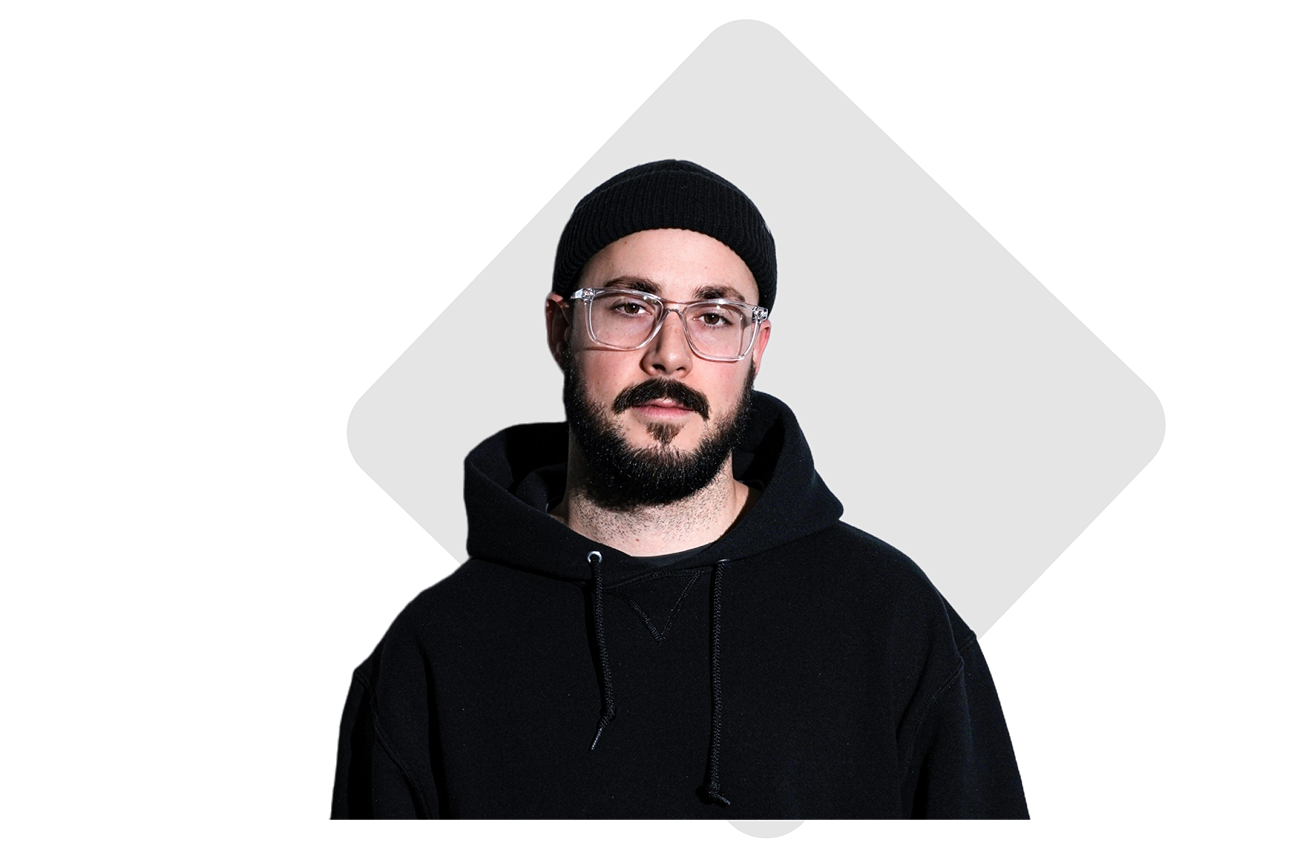
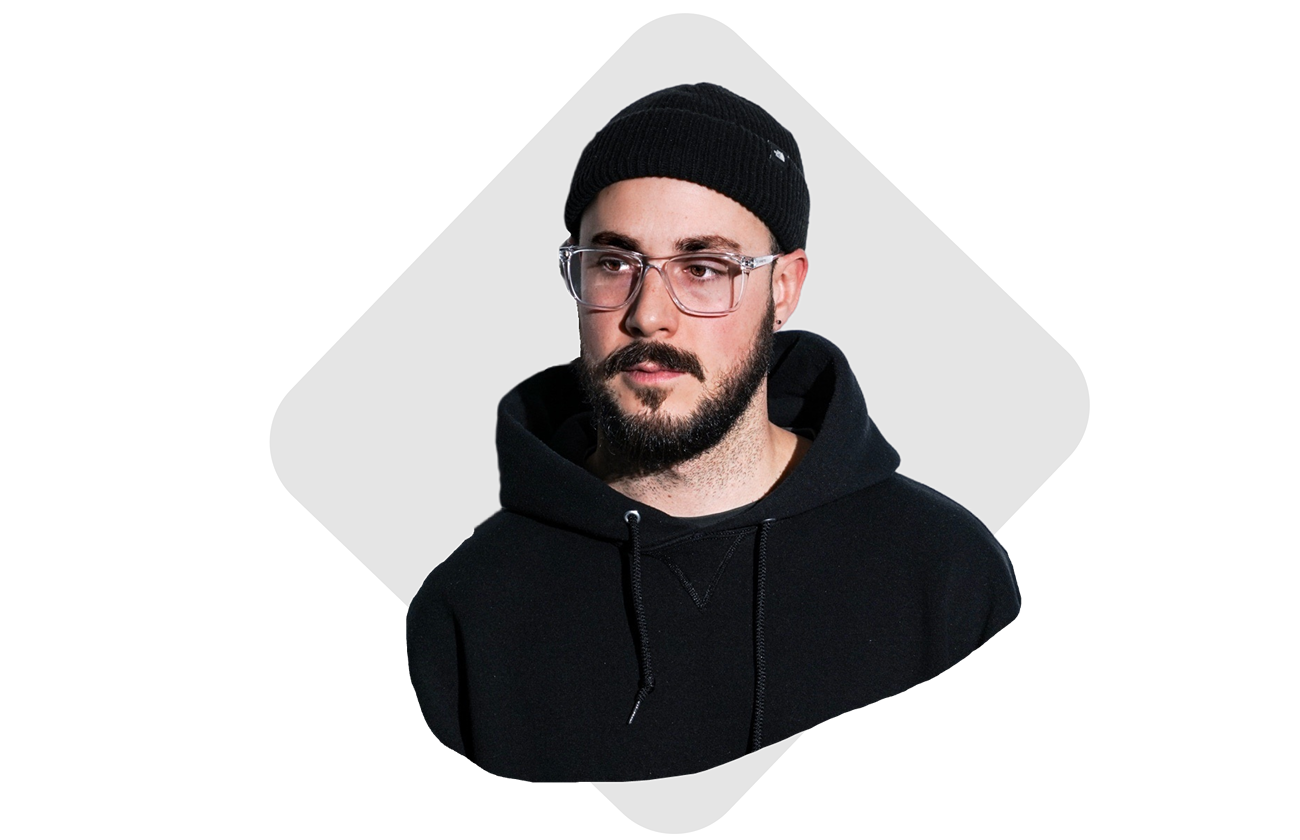
Refactor code structure and remove redundant sections for improved readability and maintainability

Changed region(s): [[0.1846, 0.0, 0.8923, 0.9905], [0.5231, 0.681, 0.5538, 0.7119]]

diff --git a/index.html b/index.html
@@ -111,16 +111,18 @@
                     media="(max-width: 479px)">
 
                     <!-- Small screens -->
-                    <source 
+                     
+                    <!-- <source 
                     srcset="images/s-profile-1-786w.png, 
                             images/s-profile-1-1200.png 2x"
-                    media="(max-width: 480px)">
+                    media="(max-width: 480px)"> -->
                         
                     <!-- Medium-Mobile / Small Tablet -->
-                    <source 
+
+                    <!-- <source 
                     srcset="images/s-profile-1-900w.png, 
                             images/s-profile-1-1300w.png 2x"
-                    media="(max-width: 834px)">
+                    media="(max-width: 834px)"> -->
 
                     <!-- Tablet screens -->
                     <source 
@@ -135,7 +137,7 @@
                     media="(min-width: 1501px)">
                   
                     <!-- Fallback -->
-                    <img src="images/s-profile-1-786w.png" alt="Profile Image of Sam Rubinoff Wearing a Black Hat and Sweater" class="profile-image" aria-label="Portrait of Sam Rubinoff" itemprop="image">
+                    <img src="images/s-profile-1-600w.png" alt="Profile Image of Sam Rubinoff Wearing a Black Hat and Sweater" class="profile-image" aria-label="Portrait of Sam Rubinoff" itemprop="image">
                 </picture>
 
             </div>
@@ -145,7 +147,7 @@
     </main>
    
     <!-- Footer Section -->    
-    <footer class="site-footer  fixed-bottom" id="footerBottom" itemscope itemtype="https://schema.org/WPFooter" role="contentinfo" aria-label="Footer Section">
+    <footer class="site-footer fixed-bottom" id="footerBottom" itemscope itemtype="https://schema.org/WPFooter" role="contentinfo" aria-label="Footer Section">
 
         <div class="container d-flex justify-content-between align-items-center px-4 py-3">
 

diff --git a/css/index.css b/css/index.css
@@ -89,20 +89,16 @@
     display: flex;
     justify-content: center;
     align-items: center;
-    height: 60vh; /* Reduced height for less whitespace */
+    height: 54vh; /* Reduced height for less whitespace */
 }
 
 /* Profile Image */
-
-/* .profile-image-container {
-    position: relative;
-} */
-
-/* .profile-image {
-    height: 65vh;
-    width: auto;
-    margin-top: -40px;
-} */
+.profile-image {
+    width: 535px;
+    height: auto;
+    margin-top: -90px;
+    margin-left: -35px;
+}
 
 /* Media Queries */
 /* Styles for Medium Screens (834x1194= iPad Pro 11") */
@@ -143,13 +139,15 @@
     
     /* Profile Section */
     .profile-section {
-        height: 65vh; /* Reduced height for less whitespace */
+        height: 80vh; /* Reduced height for less whitespace */
     }
     
-    /* .profile-image {
-        height: 100vh;
-        width: auto;
-    } */
+    /* Profile Image */
+    .profile-image {
+        width: 880px;
+        height: auto;
+        margin-left: -35px;
+    }
 }
   
   /* Styles for Large Screens (1450x832= Macbook Air)*/
@@ -198,11 +196,11 @@
     
     /* Profile Section */
     .profile-section {
-        height: 73vh;
+        height: 74vh;
     }
     
     .profile-image {
-        width: 835px;
+        width: 845px;
         height: 570px;
         margin-top: -40px;
         margin-left: -70px;
